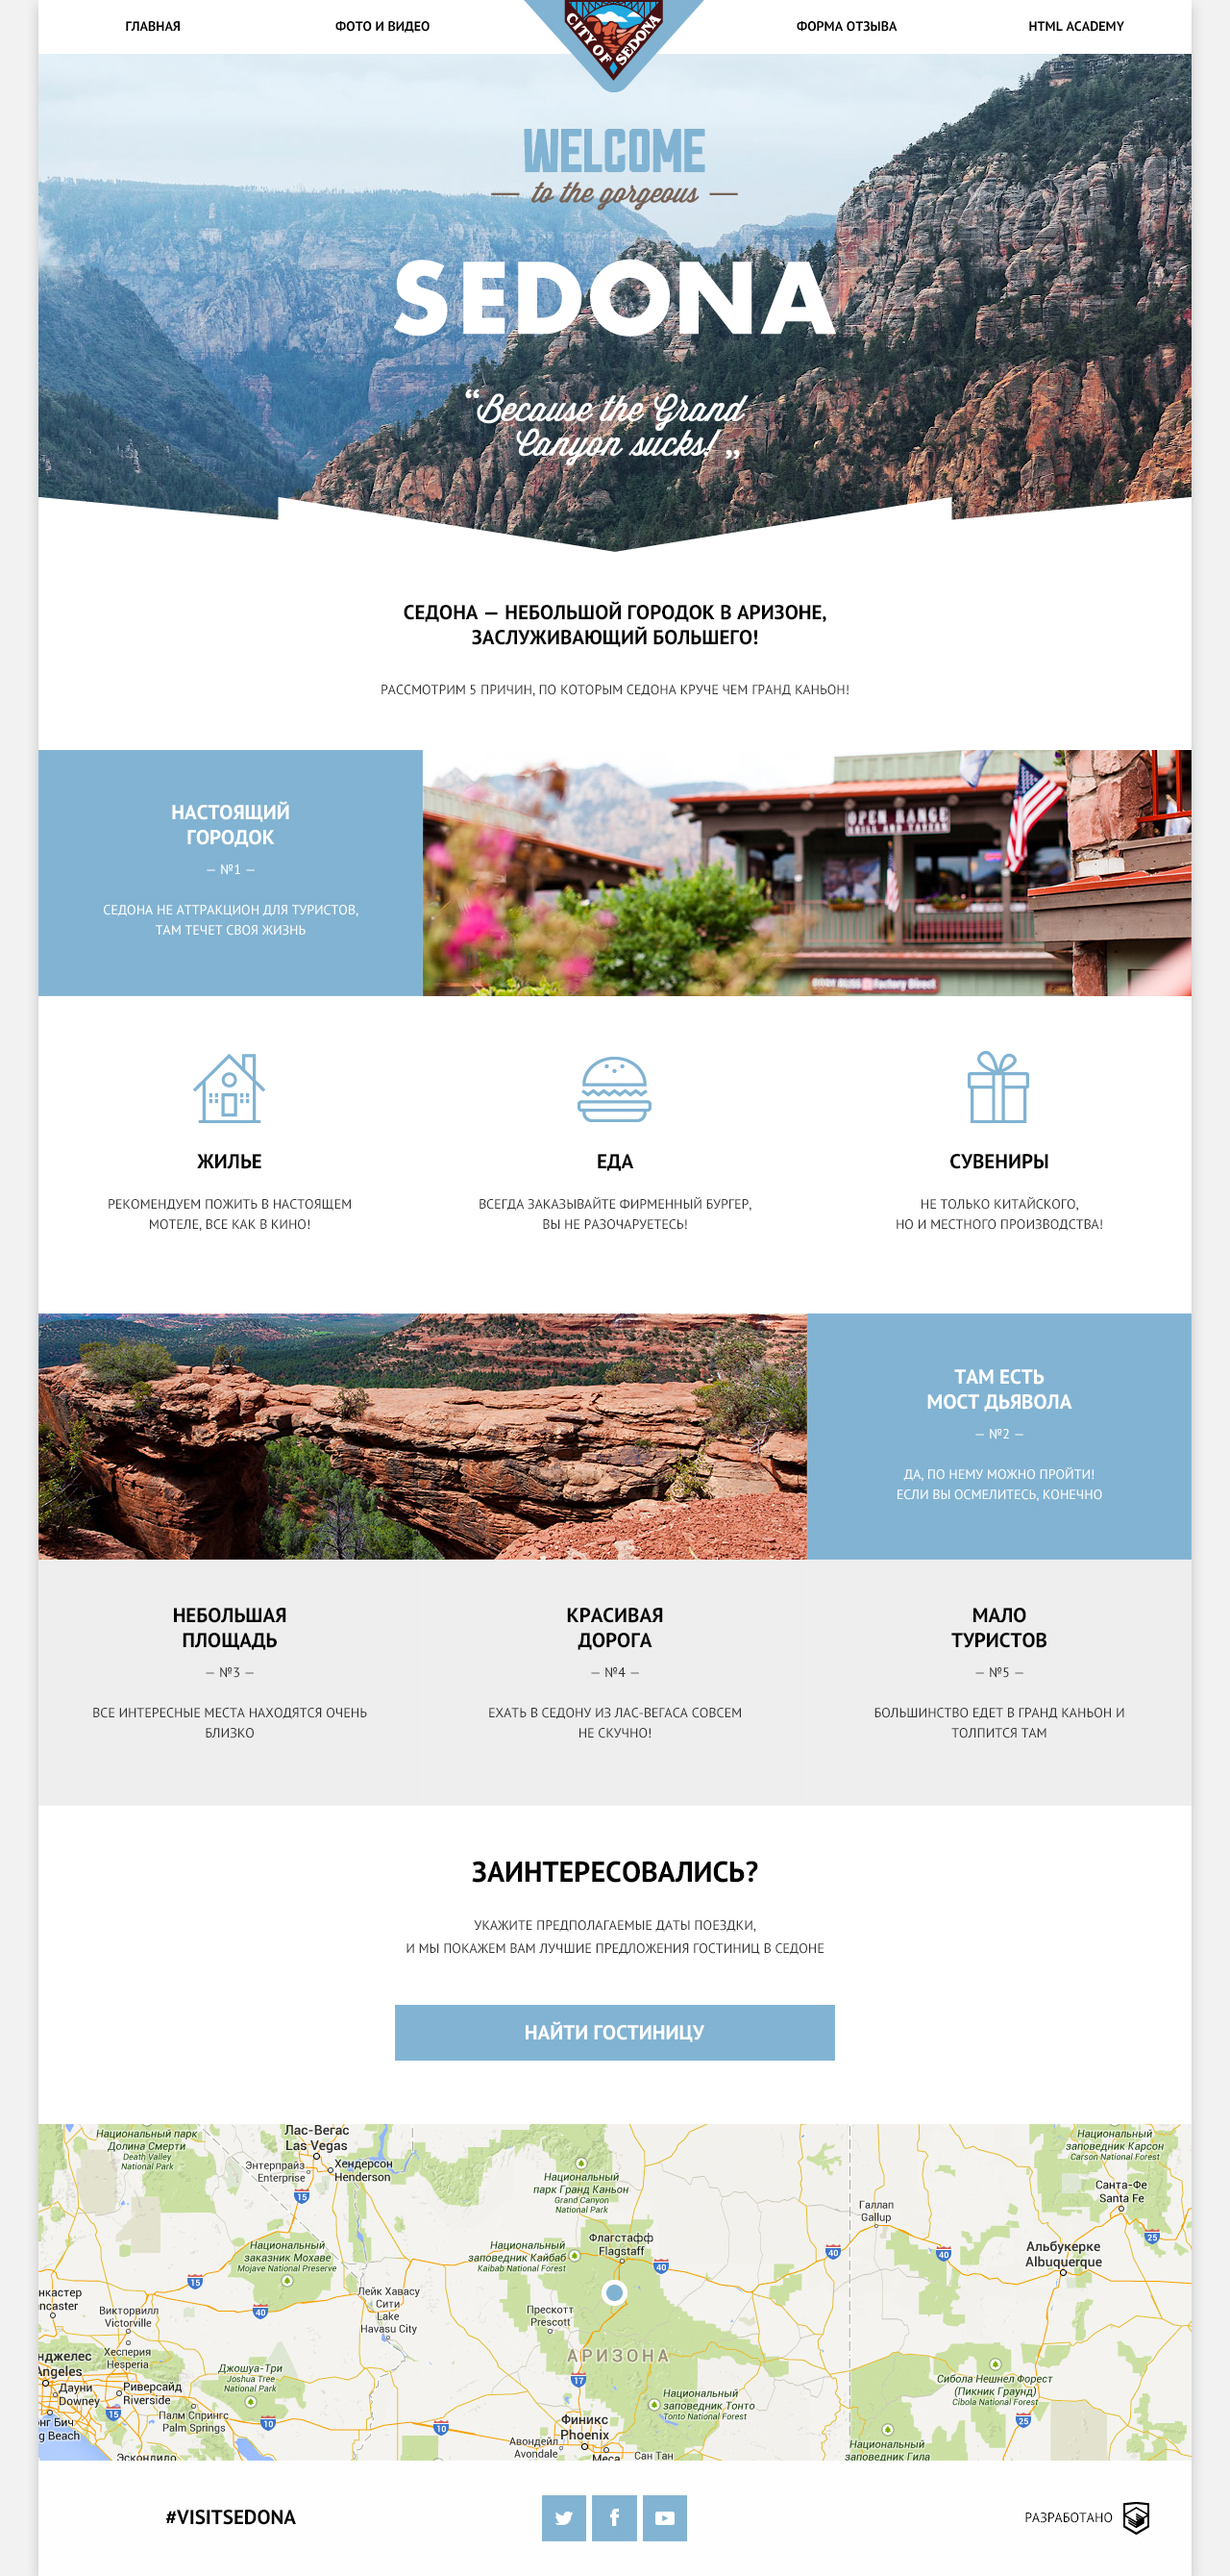
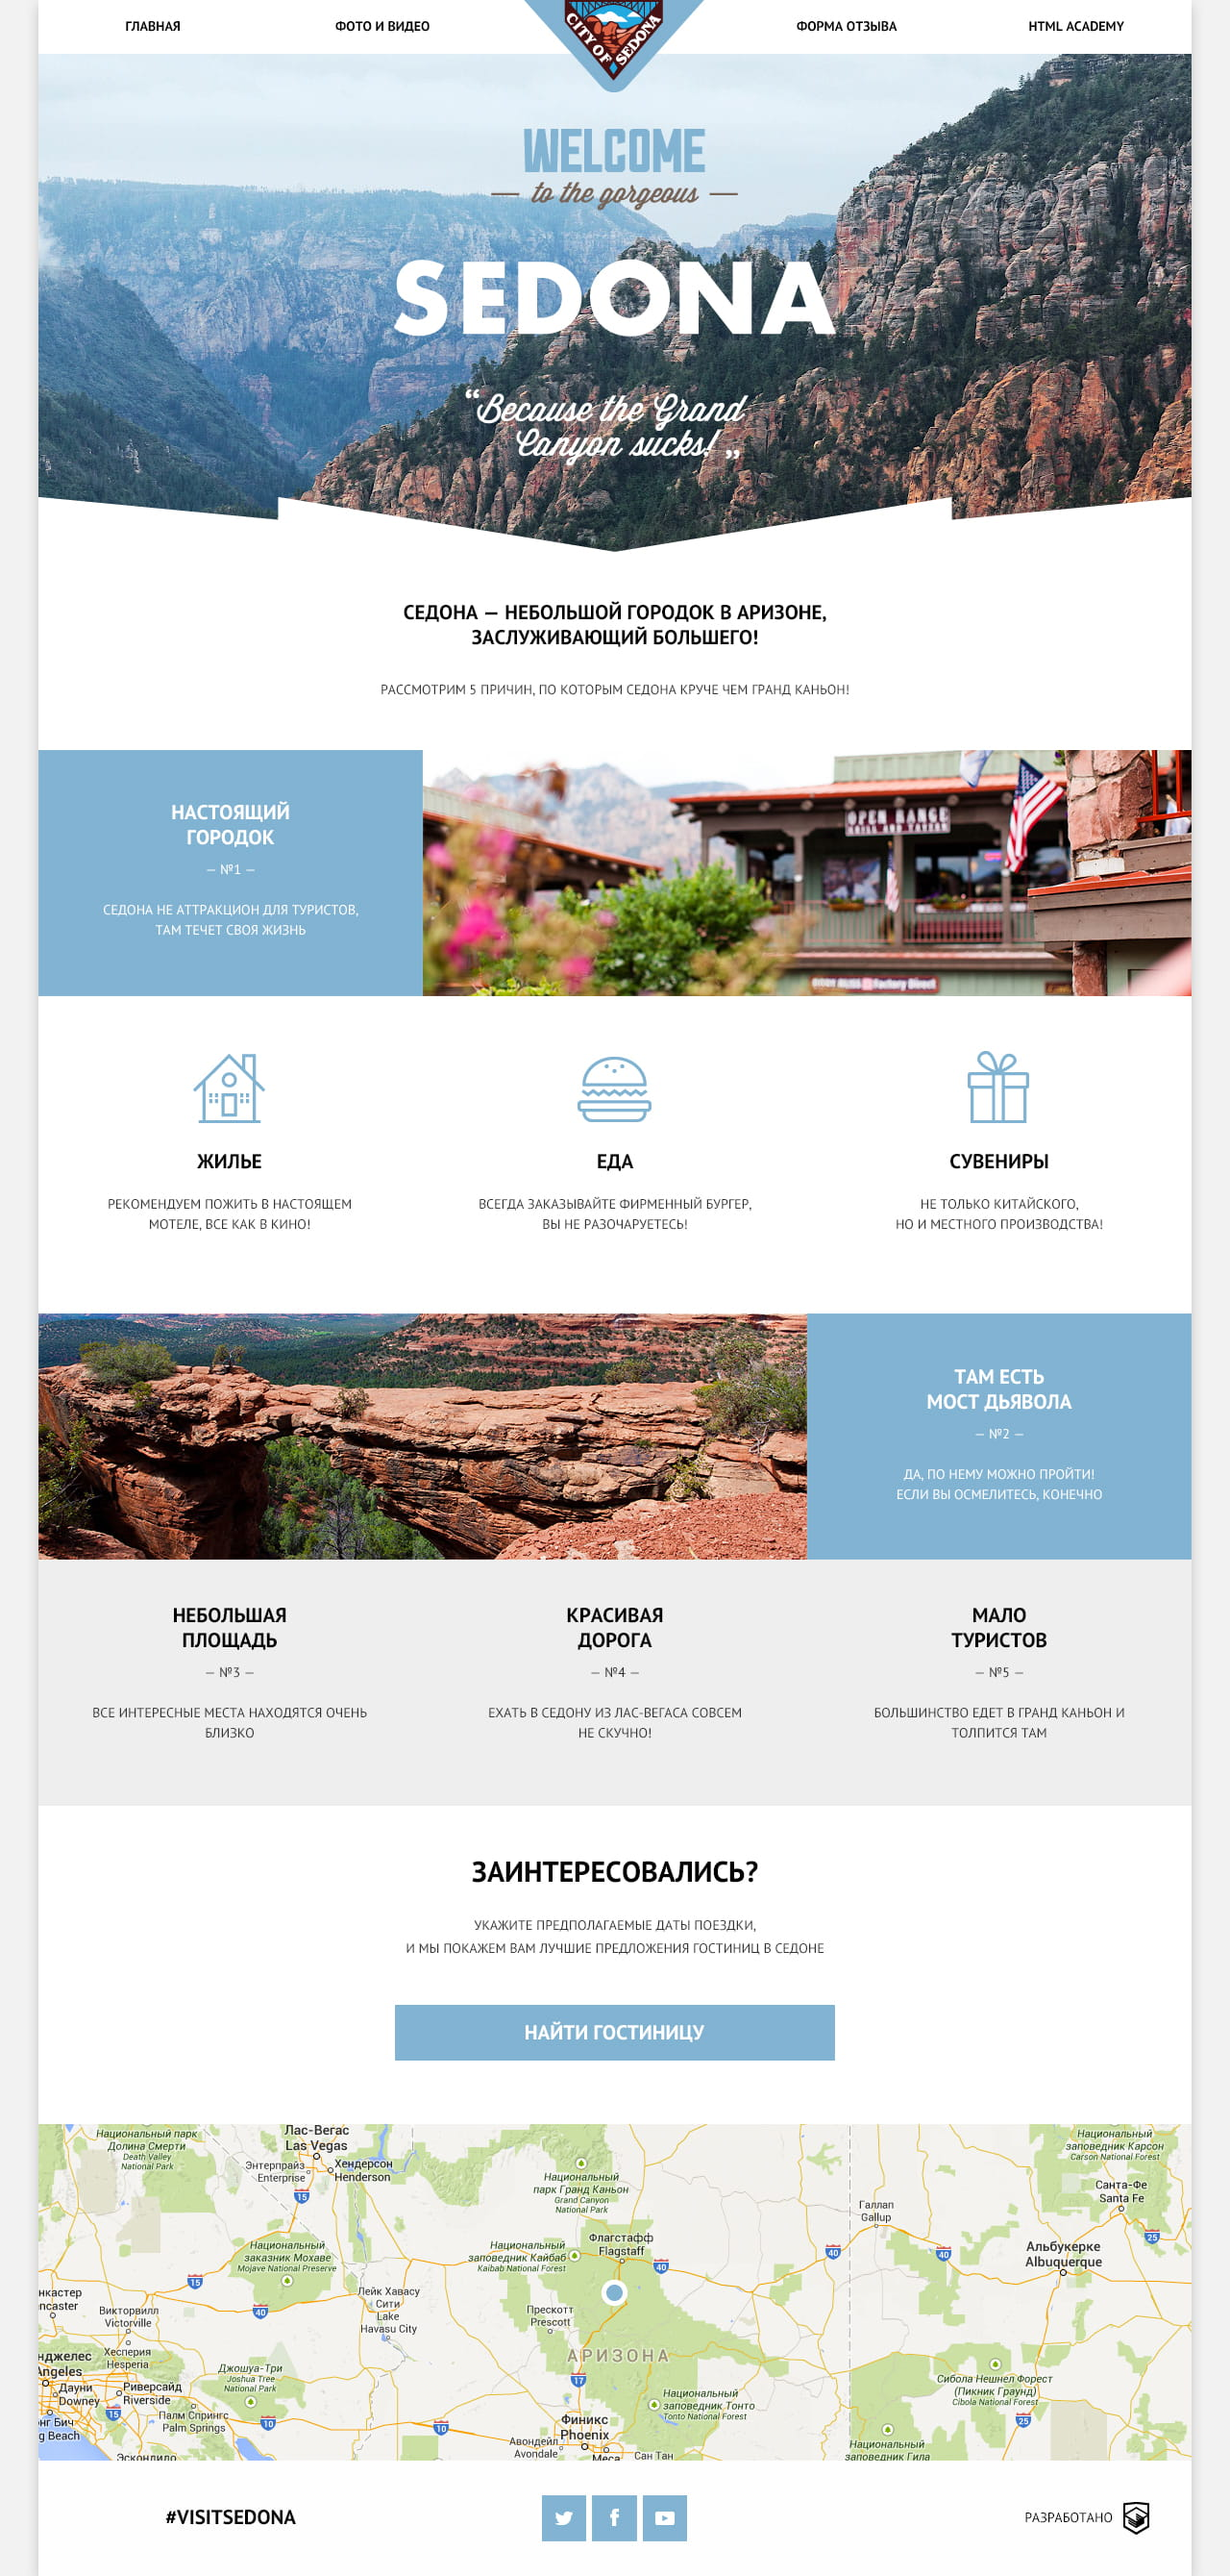
Оптимизирует изображения и минифицирует стили

diff --git a/css/style-min.css b/css/style-min.css
@@ -1,0 +1,1 @@
+.my-works__title,.skills__title{text-align:center;text-transform:uppercase}.general-nav__link,.my-works__title,.page-footer__address,.skills__title{text-transform:uppercase}.visually-hidden{border:0;clip:rect(0 0 0 0);height:1px;margin:-1px;overflow:hidden;padding:0;position:absolute;white-space:nowrap;width:1px}.page{width:1200px;margin:0 auto;font-family:Arial,sans-serif;font-size:18px;line-height:24px;color:#000}.page-header{height:600px;background-color:#617ab9}.general-nav{background-color:#4d5b71}.general-nav__list{display:flex;margin:0;padding:0;list-style:none}.general-nav__item:not(:last-child){margin-right:10px}.general-nav__link{display:inline-block;padding:30px;text-decoration:none;color:#fff}.general-nav__link:focus,.general-nav__link:hover{background-color:#353738}.general-nav__link:active{background-color:#282f35}.page-header__logo{display:block;margin:100px auto;border-radius:50%;border:10px solid #4d5b71}.my-works__list,.skills__list{display:flex;margin-bottom:0;list-style:none}.skills{padding:40px 0}.skills__title{margin:0}.skills__list{flex-direction:column;align-items:center;margin-top:20px;padding:0}.skills__item{padding:10px}.my-works{padding:40px 0;background-color:#f7f7f7}.my-works__title{margin:0}.my-works__list{flex-direction:column;align-items:center;margin-top:20px;padding:0}.my-works__item{margin-top:20px;border:10px solid #4d5b71}.my-works__link:focus,.my-works__link:hover{opacity:1}.my-works__img{display:block;object-fit:cover}.page-footer{display:flex;justify-content:space-around;height:100px;background-color:#4d5b71}.page-footer__address{align-self:center;color:#fff}.page-footer__social{align-self:center}.social__list{display:flex;margin:0;padding:0;list-style:none}.social__item{margin-right:20px}.social__icon{fill:#fff}.social__icon:focus,.social__icon:hover{opacity:.5}.social__icon:active{fill:#94979a}

diff --git a/index.html b/index.html
@@ -3,7 +3,7 @@
 <head>
   <meta name="viewport" content="width=device-width, initial-scale=1">
   <meta charset="utf-8">
-  <link rel="stylesheet" href="css/style.css">
+  <link rel="stylesheet" href="css/style-min.css">
 	<title>Портфолио</title>
 </head>
 <body class="page">

diff --git a/css/style.css b/css/style.css
@@ -34,7 +34,7 @@
 	display: flex;
 	margin: 0;
 	padding: 0;
-	
+
 	list-style: none;
 }
 
